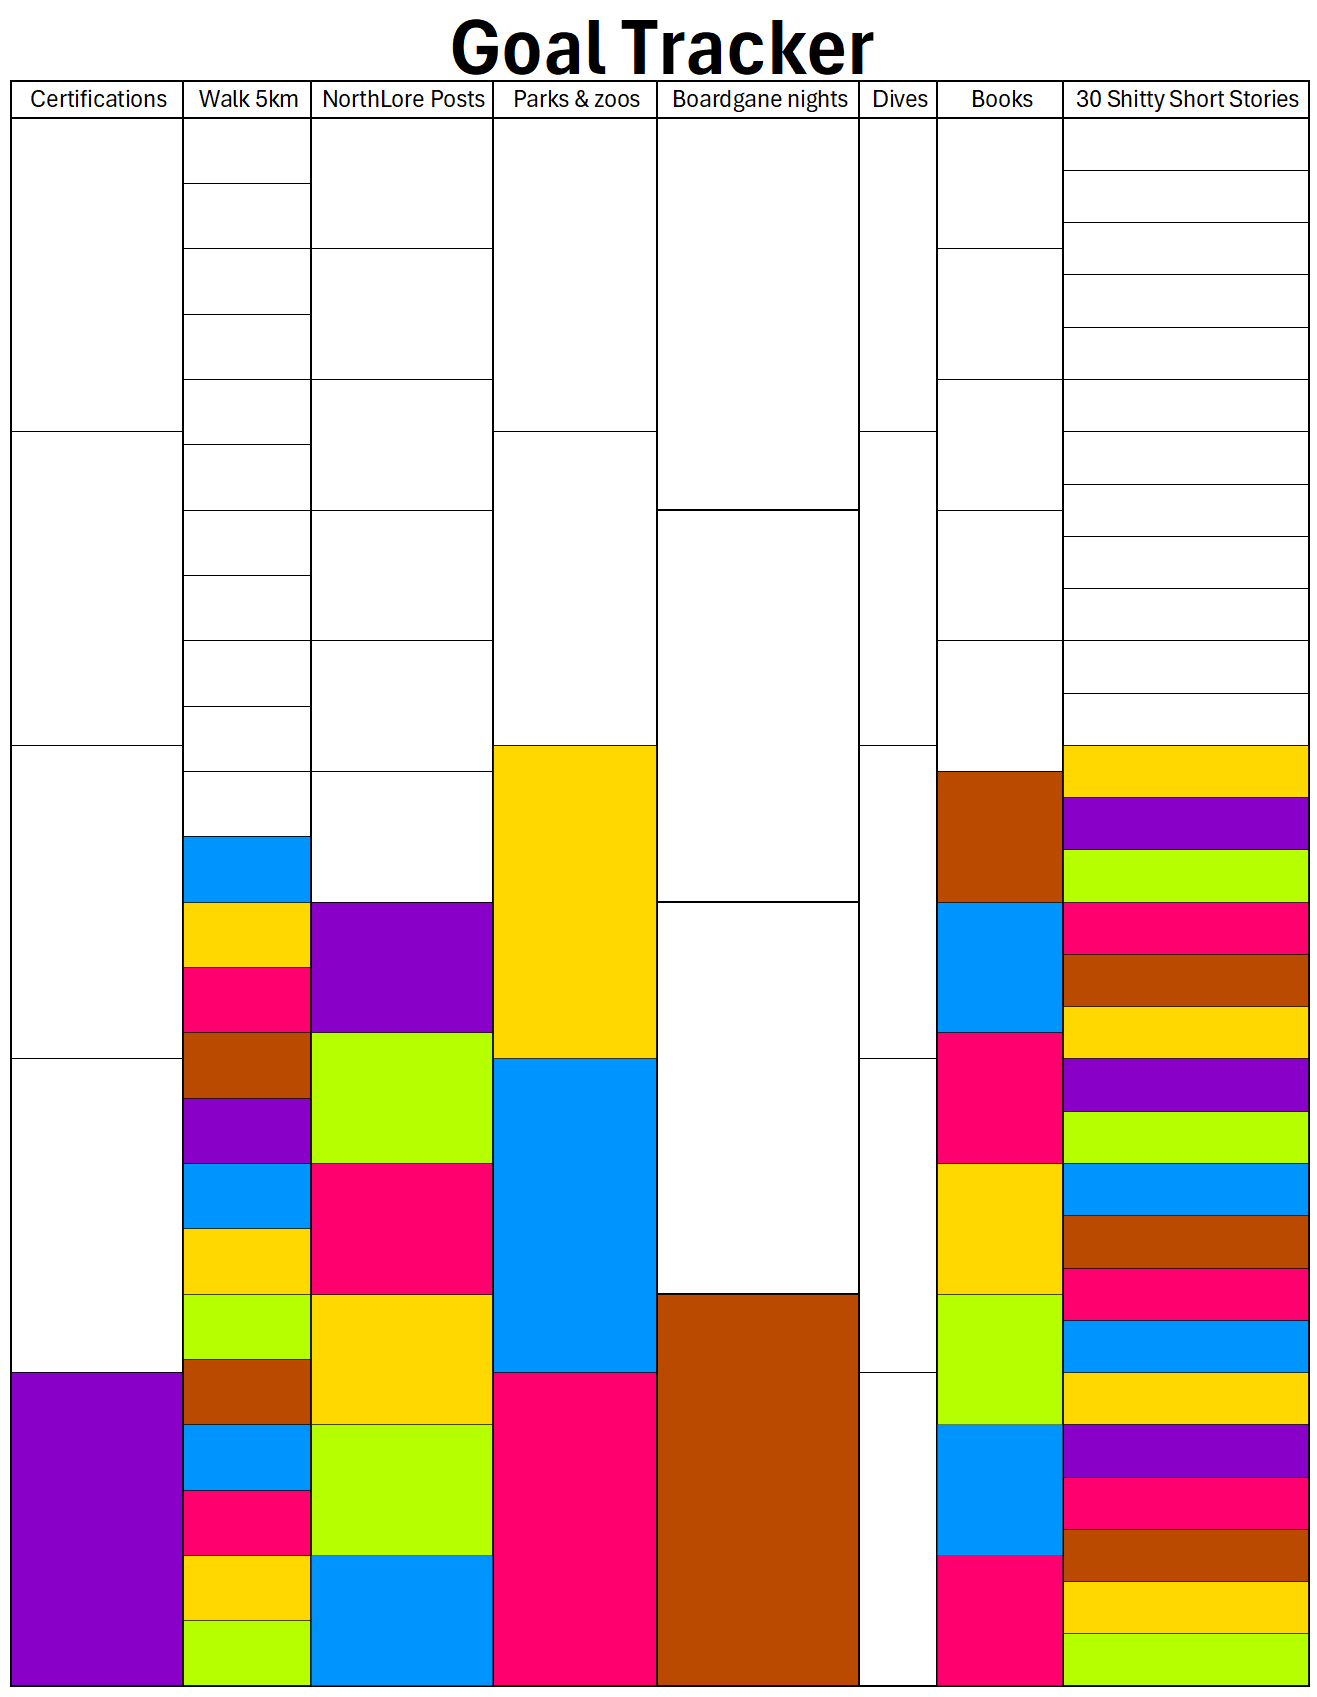
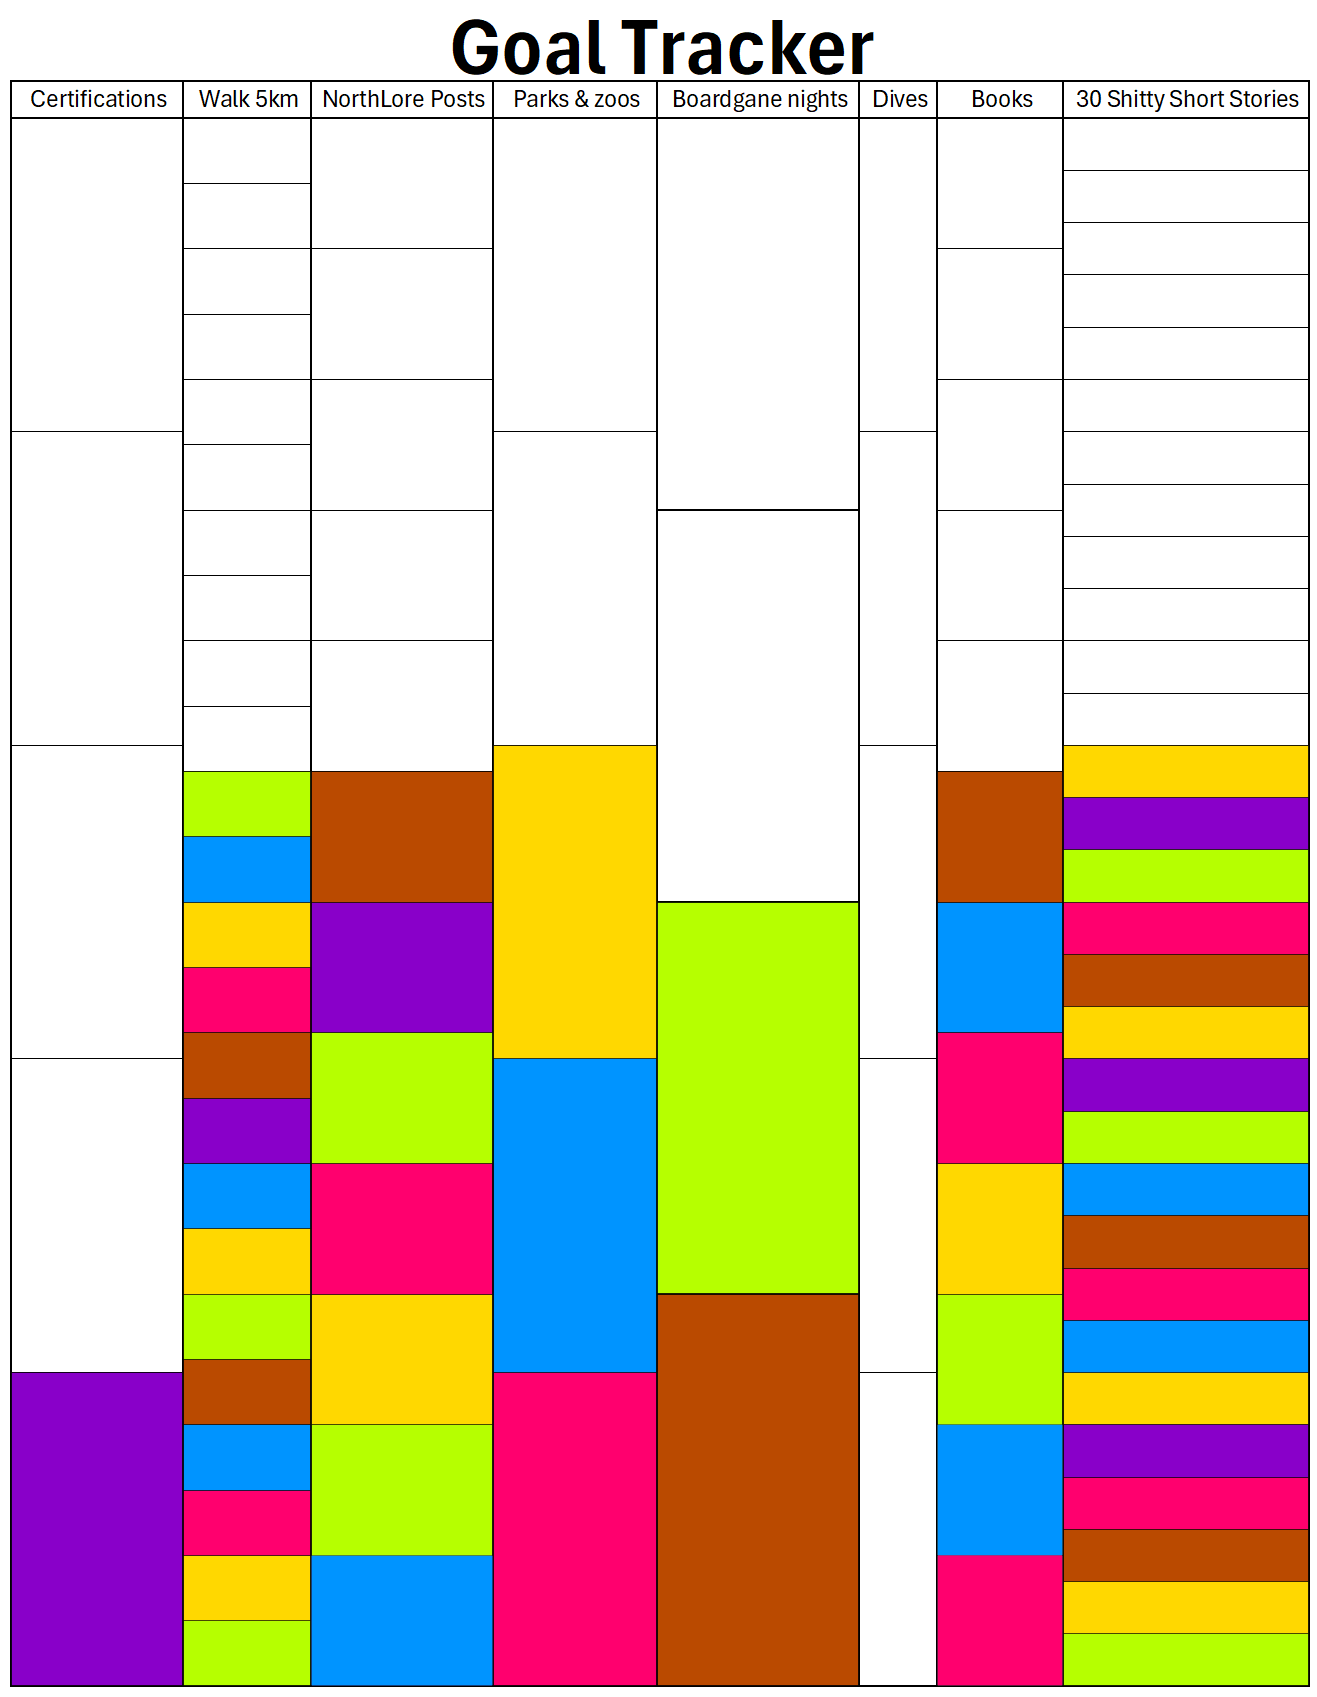
Bingo, and a category

Changed region(s): [[0.4981, 0.5309, 0.6538, 0.7808], [0.1245, 0.4372, 0.3736, 0.5309]]

diff --git a/src/posts/reflections/HappyBirthday.md b/src/posts/reflections/HappyBirthday.md
@@ -1,26 +1,25 @@
 ---
-tags: misc, somethingelse
+tags: reflections
 layout: _article.njk
 title: "Happy Birthday, Old Friend!"
 date: "2026-10-01"
 summary: "I hope you're having a great day, with loads of cake"
 ---
 {% box %}
-Oh buddy, am I happy to know you! I know we don't talk as much as we used to, but I want you to know that I often think of you, and I hope you are doing great. <br/>
+Dear Friend! <br>
+Boy, am I happy to know you! I know we don't talk as much as we used to, but I want you to know that I often think of you, and I hope you are doing great. <br/>
 You deserve all the best things in the world and I wanted to remind you on this special day that I am always rooting for you. <br>
-I hope I get to see you again soon. I miss the great times we had together. Life has turned somewhat mundane lately, but I still find great joy in the memories we made back in the day. Do you remember that one time, with the thing? Obviously I can't write the details here, in case someone is reading along, but that was one of the greatest experiences I have ever had. Hopefully, you are still as full of life as I remember, and enjoying every bit of it. <br>
-Wishing you a very happy birthday, with lots of hope for smiles and great new memories in the year ahead. <br>
-The very best wishes for the year ahead, to you and yours on this beautiful day<br/>
+I hope I get to see you again soon. I miss the great times we had together and I wish you a very happy birthday, with lots of smiles and hope for great new memories in the year ahead. <br>
 Yours truly
 {% endbox %}
 
 
 ## Did someone send you this link?
-If someone sent you to this page on your birthday, that means they are thinking of you, and want you to know it. The site is meant as a fun, easy way to connect (or reconnect) with people on their birthdays. You are welcome to use the site yourself, in case you want to send a birthday card to someone, but can't find the right words. 
+If someone sent you to this page on your birthday, that means they are thinking of you, and want you to know it. The site is meant as a fun, easy way to connect (or reconnect) with people on their birthdays. You are welcome to use it yourself, in case you want to send a birthday card to someone, but can't find the right words. 
 
 
 ## Birthday messages matter
-Some people make a big fuzz about their birthdays, invite everyone for a big party, cake, karaoke, drinks, dinner, lights, balloons, and much more. Others prefer to let the day pass in silence, with little to no celebration. No gifts, no guests, no grand plans. <br>
+Some people make a big fuzz about their birthdays, invite everyone for a big party, cake, karaoke, drinks, dinner, lights, balloons, etc., etc., etc.. Others prefer to let the day pass in silence, with little to no celebration. No gifts, no guests, no grand plans. <br>
 Weather people are in the first or the second group, most people like getting messages on their birthdays. Not because they necessarily like the attention, but because a personal message says "I remember you". Peoples birthdays are a great time to let them know that you still think of them, and they still mean something to you, even if it is just the faint memory of a friendship. <br>
 It doesn't have to be a long profound message. Even a few words, can put a smile on someone’s face. The important part is, it should be somewhat personal. The automatic Facebook message you can send with one click seems a little hollow, at least to me. 
 
@@ -34,6 +33,6 @@ Sometimes, you want to write someone, and you just can't find the words. Believe
 
 {% box %} I never know what to write in these. "Happy Birthday" seems a little too generic? But there you go, I guess {% endbox %}
 
-Anyway, if it is your birthday today, Happy Birthday! I really do hope your are having a great time. If it is not your birthday, I hope you found something on this page you can use, when someone you know turns a corner. Alternatively, save this page, and read it again, when your own b-day comes around. 
+Anyway, if it is your birthday today, Happy Birthday! I really do hope your are having a great time. If it is not your birthday, I hope you found something on this page you can use, when someone you know turns a corner. Alternatively, save this page, and read it again, when your own birthday does come around. 
 
-{% box %} Damn, you're getting old! Hope you are doing well though {% endbox %}
+{% box %} Damn, you're getting old! Hope you are doing well though ^_^ {% endbox %}

diff --git a/src/posts/the_forge/2026Bingo.md b/src/posts/the_forge/2026Bingo.md
@@ -66,6 +66,9 @@ Good luck, and have fun!
 ## TLDR; Milestones reached
 | Date  | Goal              | Note                                     |
 | ----- | ----              | ----                                     |
+| 03/10 | Boardgame Night   | Family Brunch                            |
+| 01/10 | NorthLore Posts   | Happy Birthday                           |
+| 26/09 | 5K walks          | Walking Bella & Nella                    |
 | 20/09 | 5K walks          | Round the city                           |
 | 13/09 | Read Books        | Skammerens Datter                        |
 | 13/09 | 5K walks          | Day walk with Luna                       |
